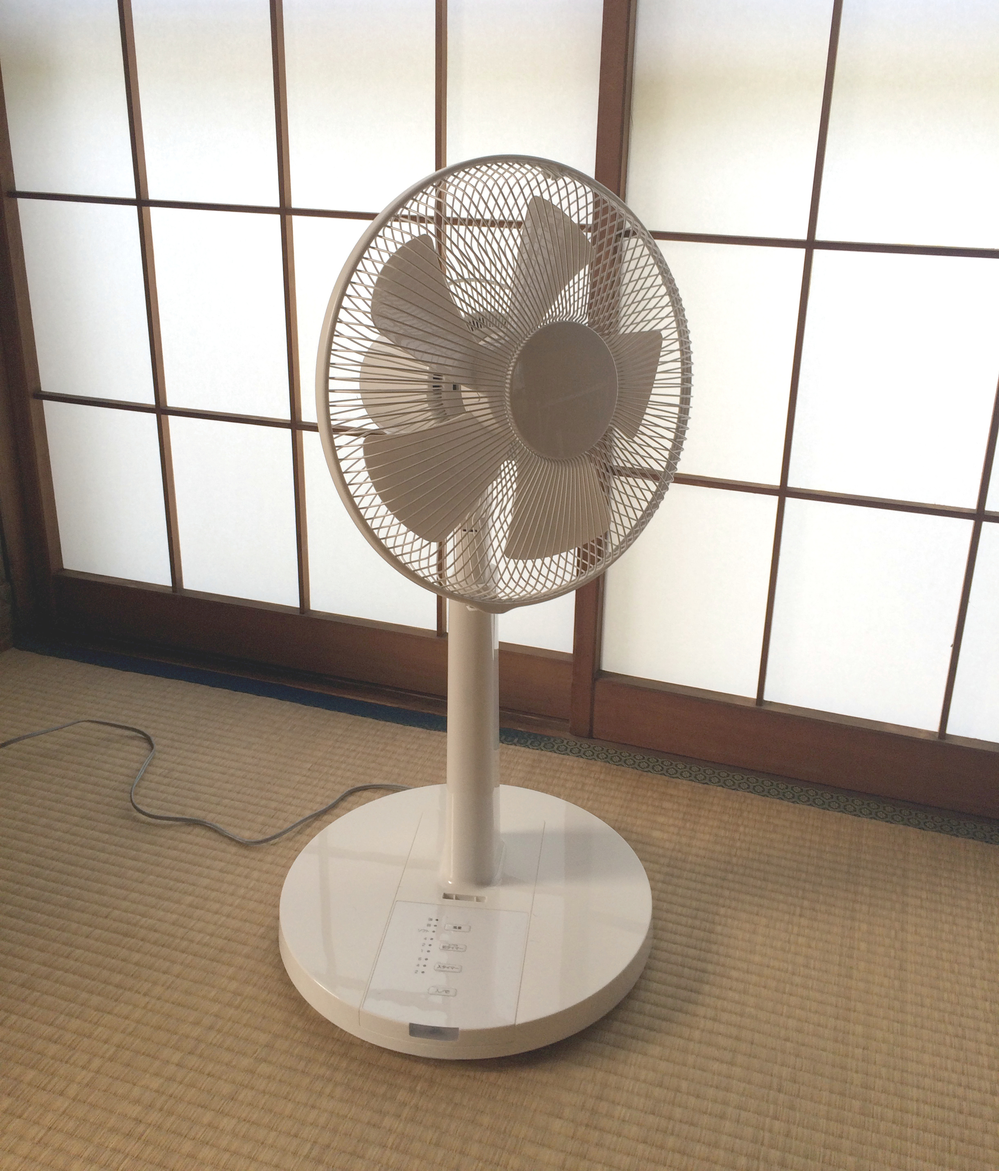
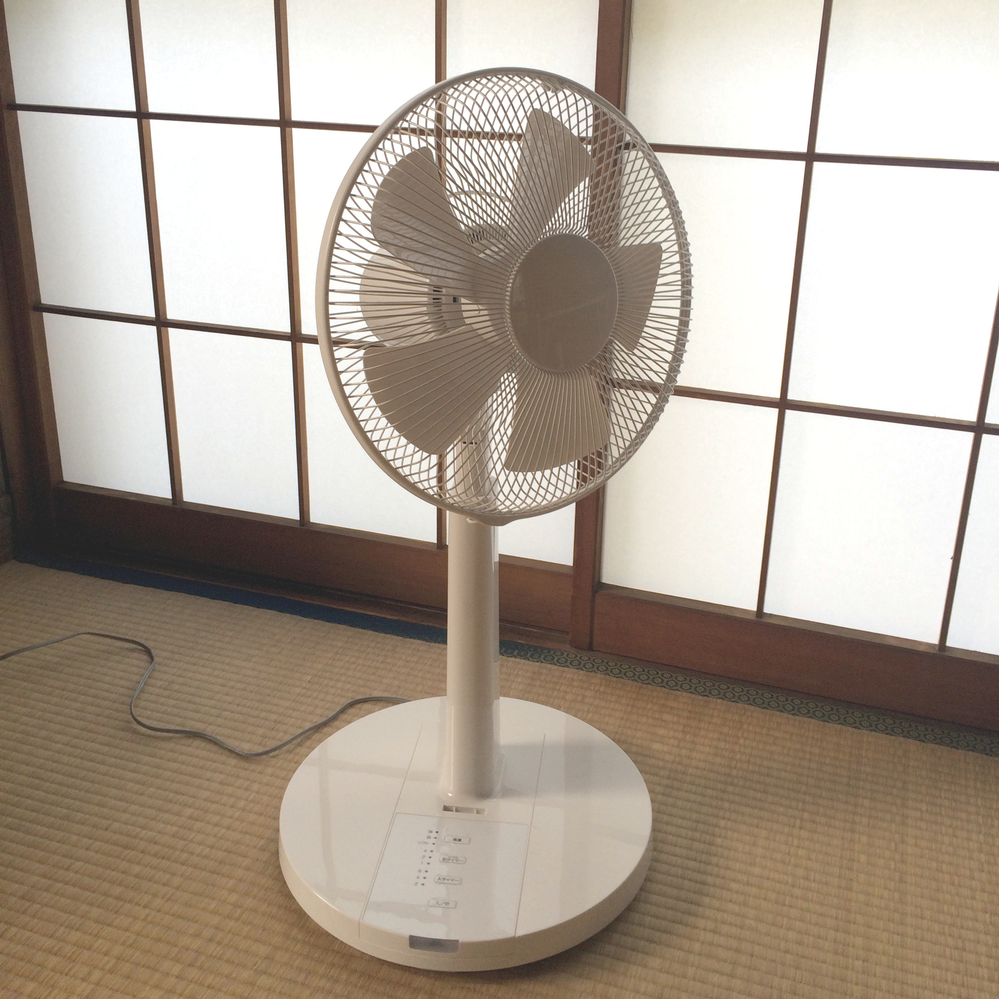
Add blog/gadget/pedestal-fan.html

diff --git a/blog/gadget/pedestal-fan.html b/blog/gadget/pedestal-fan.html
@@ -1,0 +1,174 @@
+<!DOCTYPE html>
+<html lang="ja" itemscope itemtype="http://schema.org/BlogPosting">
+  <head>
+    <meta charset="UTF-8">
+    <meta content="width=device-width" name="viewport">
+    
+      
+      <meta content="もう夏なので扇風機を出した。震災後に買った口で、もう4年目。まだまだきれいだし、あと10年くらいは使えそうだ。" name="description">
+      <meta content="blosxom v2.1.2+dev" name="generator">
+    
+    
+
+    <title>扇風機 - Weblog - Hail2u.net</title>
+
+    <link href="/apple-touch-icon.png" rel="apple-touch-icon" type="image/png">
+    <link href="/blog/gadget/pedestal-fan.html" rel="canonical">
+    <link href="/feed" rel="alternate" type="application/rss+xml">
+
+    <link rel="prev" href="/blog/webdesign/placeholder-normalization.html">
+
+    
+
+    
+      <meta content="扇風機" property="og:title">
+      <meta content="http://hail2u.net/images/blog/pedestal-fan.jpg" property="og:image">
+      <meta content="もう夏なので扇風機を出した。震災後に買った口で、もう4年目。まだまだきれいだし、あと10年くらいは使えそうだ。" property="og:description">
+    
+
+    <meta content="article" property="og:type">
+    <meta content="http://hail2u.net/blog/gadget/pedestal-fan.html" property="og:url">
+    <meta content="ja_JP" property="og:locale">
+    <meta content="Hail2u.net" property="og:site_name">
+    <meta content="https://www.facebook.com/hail2u" prefix="article: http://ogp.me/ns/article#" property="article:author">
+    <meta content="100000022521341" prefix="fb: http://ogp.me/ns/fb#" property="fb:admins">
+
+    <meta content="summary_large_image" name="twitter:card">
+    <meta content="@hail2unet" name="twitter:site">
+    <meta content="@hail2u_" name="twitter:creator">
+
+    <link href="/styles/style.min.css" rel="stylesheet">
+
+    <script async src="/scripts/main.min.js"></script>
+    
+    <!-- Google AdSense -->
+    <script async src="//pagead2.googlesyndication.com/pagead/js/adsbygoogle.js"></script>
+    
+    <!-- Google Analytics -->
+    <script>
+      (function(i,s,o,g,r,a,m){i['GoogleAnalyticsObject']=r;i[r]=i[r]||function(){
+      (i[r].q=i[r].q||[]).push(arguments)},i[r].l=1*new Date();a=s.createElement(o),
+      m=s.getElementsByTagName(o)[0];a.async=1;a.src=g;m.parentNode.insertBefore(a,m)
+      })(window,document,'script','//www.google-analytics.com/analytics.js','ga');
+    
+      ga('create', 'UA-42525667-1', 'auto');
+      ga('send', 'pageview');
+    </script>
+  </head>
+
+  <body>
+      
+      <div class="global-header" role="banner">
+    
+      
+    
+      <nav>
+        <a class="logo" href="/"><img alt="Hail2u.net" src="/images/logo.min.svg"></a>
+    
+        <ul class="site-navigation">
+            <li><a href="/blog/"><mark>Weblog</mark></a></li>
+            
+    
+          
+          
+          <li><a href="/documents/">Documents</a></li>
+          
+          <li><a href="/about/">About</a></li>
+        </ul>
+      </nav>
+    
+      
+      
+      </div>
+    
+
+    <div class="content">
+    
+      
+
+
+      <div class="has-image" role="main">
+      
+        
+        <link href="/blog/gadget/pedestal-fan.html" itemprop="url">
+
+        <h1 class="first-heading" itemprop="name">扇風機</h1>
+
+        <footer class="section-footer">
+          <p><time class="date" datetime="2015-06-03T13:36:00+09:00" itemprop="datePublished">Jun 3, 2015</time>
+            · <span class="tag" itemprop="keywords"><a href="/blog/gadget/">Gadget</a></span></p>
+        </footer>
+
+        <main itemprop="articleBody">
+<figure class="full-width">
+  <a href="/images/blog/pedestal-fan.jpg"><img alt="無印良品の真っ白なリモコン付き扇風機" height="2868" src="/images/blog/pedestal-fan.jpg" width="2448" itemprop="image"></a>
+</figure>
+
+<p itemprop="description">もう夏なので扇風機を出した。震災後に買った口で、もう4年目。まだまだきれいだし、あと10年くらいは使えそうだ。</p>
+
+<p>サーキュレーターは毎年買おうと思うけど、結局買わない。うるさいのは我慢できそうだけど、なんだかんだで部屋にあると邪魔に感じそうといつも思ってしまう。特に電源コード。今年はむしろ扇風機をもう1台買ってしまいそうだけれど、これも邪魔だし、こっちはこっちでしまう場所を考えるのが面倒で買わなそう。</p>
+
+<hr>
+
+<p>物を増やすことにすごく抵抗があって、すぐに買わない理由を考えてしまう。なんかこう強制的に買い換えるイベントでもないと解呪できなそうだ。こういうこと言うと天災に見舞われて家財道具一式が藻屑になるとかありそう。</p></main>
+
+        <aside class="share-buttons">
+          <ul>
+            <li><a href="https://twitter.com/intent/tweet?text=%E6%89%87%E9%A2%A8%E6%A9%9F%20-%20Weblog%20-%20Hail2u.net&amp;url=http%3A%2F%2Fhail2u.net%2Fblog%2Fgadget%2Fpedestal-fan.html&amp;via=hail2unet&amp;related=hail2u_">Twitter</a></li>
+            <li><a href="https://www.facebook.com/sharer/sharer.php?u=http%3A%2F%2Fhail2u.net%2Fblog%2Fgadget%2Fpedestal-fan.html">Facebook</a></li>
+            <li><a href="http://b.hatena.ne.jp/my/add.confirm?title=%E6%89%87%E9%A2%A8%E6%A9%9F%20-%20Weblog%20-%20Hail2u.net&amp;url=http%3A%2F%2Fhail2u.net%2Fblog%2Fgadget%2Fpedestal-fan.html">Hatena</a></li>
+          </ul>
+        </aside>
+      </div>
+      
+
+      
+        <aside class="ads">
+          <!-- Hail2u.net (Main) -->
+          <ins class="adsbygoogle"
+            style="display:block"
+            data-ad-client="ca-pub-8712792805045949"
+            data-ad-format="rectangle, horizontal"
+            data-ad-slot="1723739447"></ins>
+          <script>
+            (adsbygoogle = window.adsbygoogle || []).push({});
+          </script>
+        </aside>
+      
+
+      
+        <nav class="read-older">
+          <a href="/blog/webdesign/placeholder-normalization.html" rel="prev">
+  <p>プレースホルダーのスタイルにおけるノーマリゼーション</p>
+</a>
+
+
+        </nav>
+      
+
+      
+    
+    </div>
+
+    <aside class="subcontent">
+      <form class="site-search" action="https://duckduckgo.com/" role="search">
+        <input name="sites" type="hidden" value="hail2u.net">
+        <input class="query" name="q" size="32" type="search">
+        <input class="button" type="submit" value="Search with DuckDuckGo">
+      </form>
+    </aside>
+
+    <footer class="global-footer" role="contentinfo">
+      <ul class="footlinks">
+        <li><a href="https://creativecommons.org/licenses/by-nc/4.0/" rel="license">CC BY-NC</a></li>
+        <li><a href="https://twitter.com/hail2unet">Twitter</a></li>
+        <li><a href="https://www.facebook.com/hail2u.net">Facebook</a></li>
+        <li><a href="http://u2liah.tumblr.com/">Tumblr</a></li>
+        <li><a href="/feed" rel="alternate" type="application/rss+xml">RSS</a></li>
+      </ul>
+    
+      <p id="author" class="byline" itemprop="author" itemscope itemtype="http://schema.org/Person">Made by <span itemprop="name"><a href="https://kyonagashima.com/" rel="author" itemprop="url">Kyo Nagashima</a></span>.</p>
+    </footer>
+  </body>
+</html>
+<!-- DEBUG: Hello from Blosxom 2.1.2+dev. -->

diff --git a/index.html b/index.html
@@ -73,17 +73,17 @@
 
     <main class="content">
         <section id="latest-article" class="topic">
-            <a href="/blog/webdesign/placeholder-normalization.html">
-              <h1 class="first-heading">プレースホルダーのスタイルにおけるノーマリゼーション</h1>
+            <a href="/blog/gadget/pedestal-fan.html">
+              <h1 class="first-heading">扇風機</h1>
 
               <footer class="section-footer">
-                <p><time class="date" datetime="2015-06-02T03:10:00+09:00">Jun 2, 2015</time>
-                  · <span class="tag">Web Design</span></p>
+                <p><time class="date" datetime="2015-06-03T13:36:00+09:00">Jun 3, 2015</time>
+                  · <span class="tag">Gadget</span></p>
               </footer>
 
-              
+              <figure><img alt="無印良品の真っ白なリモコン付き扇風機" height="2868" src="/images/blog/pedestal-fan.jpg" width="2448" ></figure>
 
-              <p>テキスト入力コントロールにplaceholder属性を使って入力例を表示することができるようになってから、もうかなりの年月がたった。悪用されてもいるが、わかりやすいフォームには不可欠になりつつある程度には浸透したと言ってよいだろう。ただMozilla Developer Networkのグローバル・ナビゲーションに設置されている検索フォームのようにそのスタイリングに失敗しているケースはままある(Chrome 43だと入力済みかどうかまったく判断できない)。そういった失敗を極力減らすためには、Firefoxのようにopacityプロパティーを使ってノーマライズしてやるのが良いだろう。</p>
+              <p>もう夏なので扇風機を出した。震災後に買った口で、もう4年目。まだまだきれいだし、あと10年くらいは使えそうだ。</p>
             </a>
         </section>
 
@@ -104,6 +104,10 @@
 
           <ol class="post-list">
               <li>
+                <div class="info"><time class="date" datetime="2015-06-02T03:10:00+09:00">Jun 2, 2015</time></div>
+                <a href="/blog/webdesign/placeholder-normalization.html">プレースホルダーのスタイルにおけるノーマリゼーション</a>
+              </li>
+              <li>
                 <div class="info"><time class="date" datetime="2015-06-01T12:05:00+09:00">Jun 1, 2015</time></div>
                 <a href="/blog/software/mn.html">MN</a>
               </li>
@@ -118,10 +122,6 @@
               <li>
                 <div class="info"><time class="date" datetime="2015-05-29T12:58:00+09:00">May 29, 2015</time></div>
                 <a href="/blog/gadget/kaldi-drip-coffee-filter-for-cup.html">KALDI ドリップコーヒーフィルター(カップ用)</a>
-              </li>
-              <li>
-                <div class="info"><time class="date" datetime="2015-05-28T07:52:00+09:00">May 28, 2015</time></div>
-                <a href="/blog/webdesign/local-font.html">ローカルのフォント</a>
               </li>
           </ol>
         </section>

diff --git a/blog/index.html b/blog/index.html
@@ -115,6 +115,12 @@
             <ol class="post-list">
 
         <li>
+          <div class="info"><time class="date" datetime="2015-06-03T13:36:18+09:00">Jun 3, 2015</time></div>
+          <a href="/blog/gadget/pedestal-fan.html">扇風機</a>
+        </li>
+
+
+        <li>
           <div class="info"><time class="date" datetime="2015-06-02T03:10:38+09:00">Jun 2, 2015</time></div>
           <a href="/blog/webdesign/placeholder-normalization.html">プレースホルダーのスタイルにおけるノーマリゼーション</a>
         </li>

diff --git a/blog/gadget/index.html b/blog/gadget/index.html
@@ -102,6 +102,10 @@
 
 
             <li>
+              <div class="info"><time class="date" datetime="2015-06-03T13:36:00+09:00">Jun 3, 2015</time></div>
+              <a href="/blog/gadget/pedestal-fan.html">扇風機</a>
+            </li>
+            <li>
               <div class="info"><time class="date" datetime="2015-05-29T12:58:00+09:00">May 29, 2015</time></div>
               <a href="/blog/gadget/kaldi-drip-coffee-filter-for-cup.html">KALDI ドリップコーヒーフィルター(カップ用)</a>
             </li>
